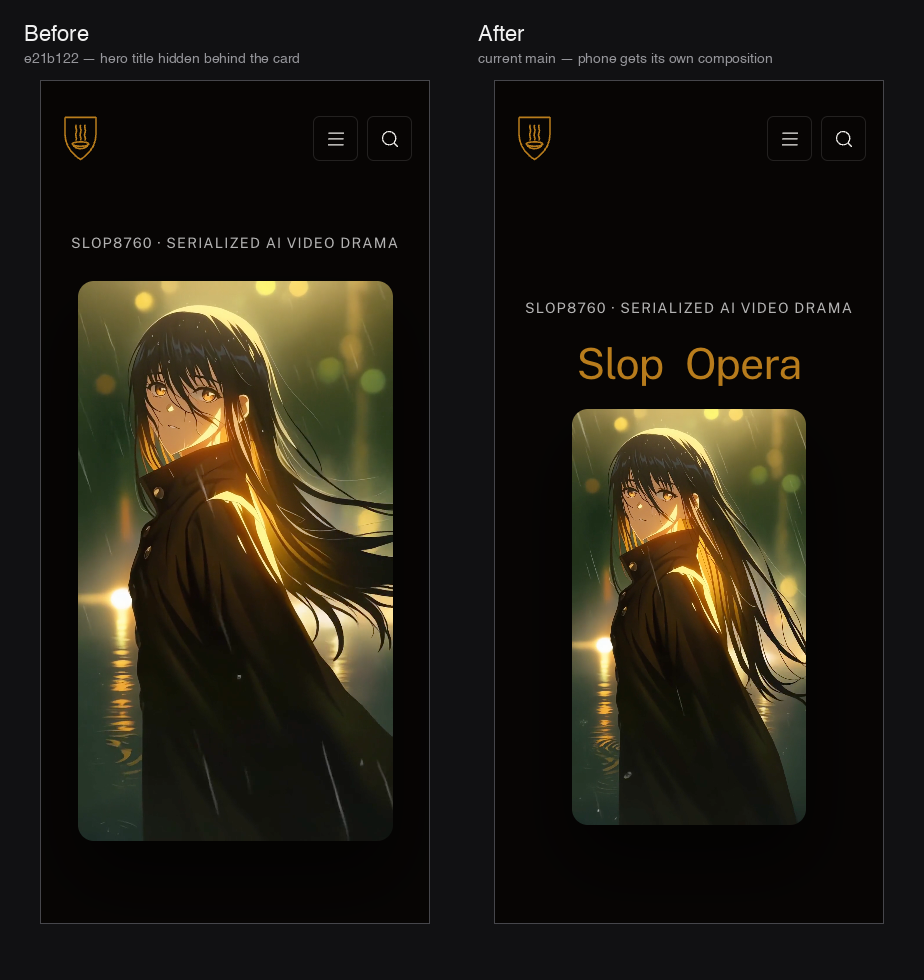
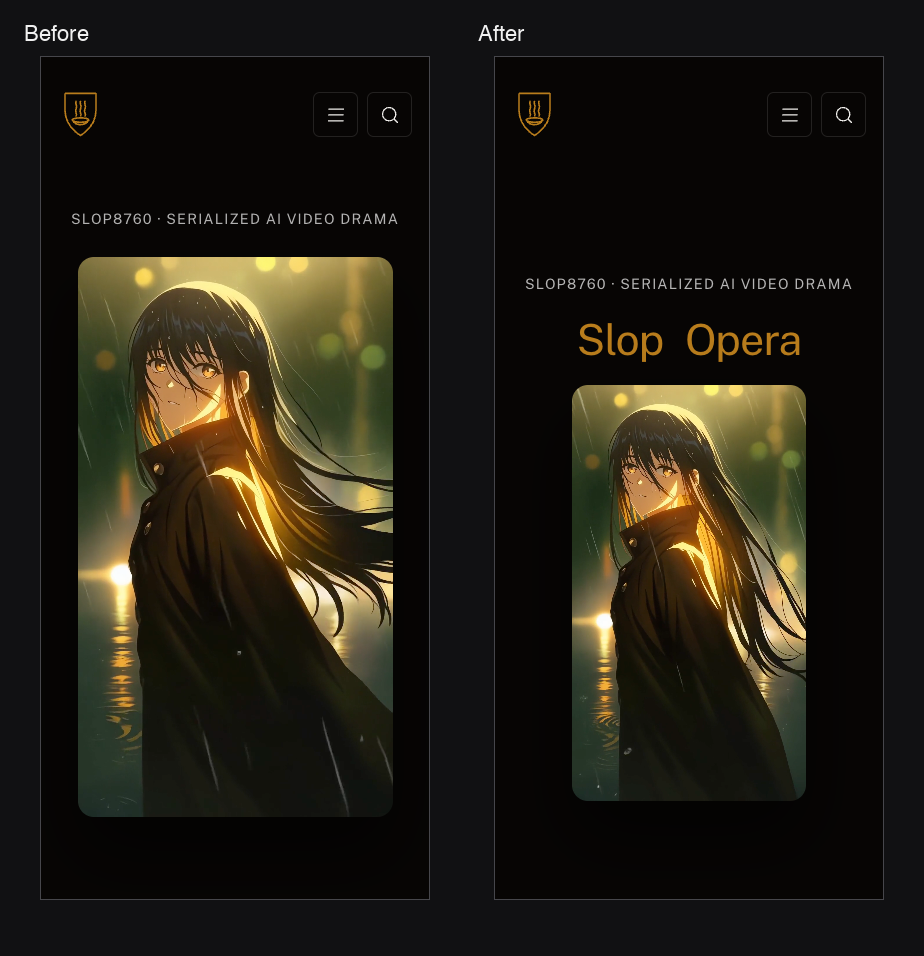
Show how I checked the backlot and date the hero comparison

diff --git a/PROCESS.md b/PROCESS.md
@@ -6,7 +6,7 @@ The visual pass showed why a green report was insufficient. A browser review fou
 
 ![Historical phone hero before and after the readability repair](docs/hero-390-before-after.png)
 
-*Historical comparison saved at [1af0ecd](https://github.com/comp4020-agentic-coding-studio/comp4020-ass2-Ray0766/commit/1af0ecd87d5f8d5f25d0401efcc438aeacb924ab): the image's “current main” label means the revision captured then, not today's site.*
+*Phone hero before and after the readability repair, captured at [1af0ecd](https://github.com/comp4020-agentic-coding-studio/comp4020-ass2-Ray0766/commit/1af0ecd87d5f8d5f25d0401efcc438aeacb924ab).*
 
 I also had to reopen an answer I had accepted. The agent called tiny phone slides a platform limitation, and my early account repeated it [1af0ecd](https://github.com/comp4020-agentic-coding-studio/comp4020-ass2-Ray0766/commit/1af0ecd87d5f8d5f25d0401efcc438aeacb924ab). In the final usability pass I asked for improvements wherever the brief allowed them. The agent changed the deck's layout and navigation without editing the platform package. All twelve weeks first failed the new readability check; after the repair, phone body text measured 18 px instead of 8.53 px, with working next, previous and return links [2a40f0b](https://github.com/comp4020-agentic-coding-studio/comp4020-ass2-Ray0766/commit/2a40f0bc1aefd9027fa7aff14102e10c7aad2e22). Calling it a “structural limitation” had explained the result without making it acceptable for students.
 
@@ -14,4 +14,4 @@ I also had to reopen an answer I had accepted. The agent called tiny phone slide
 
 *Live capture at [984fa8f](https://github.com/comp4020-agentic-coding-studio/comp4020-ass2-Ray0766/commit/984fa8fd29d167895fe6f0b373b02c83147b2486); the text and navigation are the rendered page.*
 
-For the backlot, I kept lessons on ordinary pages so 3D would not create a second curriculum [c4162ba](https://github.com/comp4020-agentic-coding-studio/comp4020-ass2-Ray0766/commit/c4162baa2a19b45189b9c603aad30add0dc8973d). I used a second agent that had built none of it to challenge acceptance. Disabling week 12's door and sending every door to week 1 still left 1,864 checks green. The resulting fix pressed every door and compared the reached page with its manifest destination; both injected faults then failed [9c8cbc8](https://github.com/comp4020-agentic-coding-studio/comp4020-ass2-Ray0766/commit/9c8cbc865d269bcd59bb3d63d3b61a52c01175dc). The reviewer supplied counterexamples I could act on. I deliberately leave teaching quality and source meaning outside automated acceptance: matching labels cannot prove useful feedback, and a citation cannot prove its claim. The harness records what the agents must preserve; I remain responsible for deciding what is worth preserving.
+For the backlot, I kept lessons on ordinary pages so 3D would not create a second curriculum [c4162ba](https://github.com/comp4020-agentic-coding-studio/comp4020-ass2-Ray0766/commit/c4162baa2a19b45189b9c603aad30add0dc8973d). I used a second agent that had built none of it to challenge acceptance. Disabling week 12's door and sending every door to week 1 still left 1,864 checks green. The resulting fix pressed every door and compared the reached page with its manifest destination; both injected faults then failed [9c8cbc8](https://github.com/comp4020-agentic-coding-studio/comp4020-ass2-Ray0766/commit/9c8cbc865d269bcd59bb3d63d3b61a52c01175dc). A theme flip served as an occlusion detector — the recorded frame stays fixed while the geometry repaints — and exposed eight windows about 43% covered by neighbouring doors; the same measurement read zero after the clearance changed [14a5646](https://github.com/comp4020-agentic-coding-studio/comp4020-ass2-Ray0766/commit/14a56463bf195b4d6776dbfcab61512503606599). The reviewer supplied counterexamples I could act on. I deliberately leave teaching quality and source meaning outside automated acceptance: matching labels cannot prove useful feedback, and a citation cannot prove its claim. The harness records what the agents must preserve; I remain responsible for deciding what is worth preserving.
